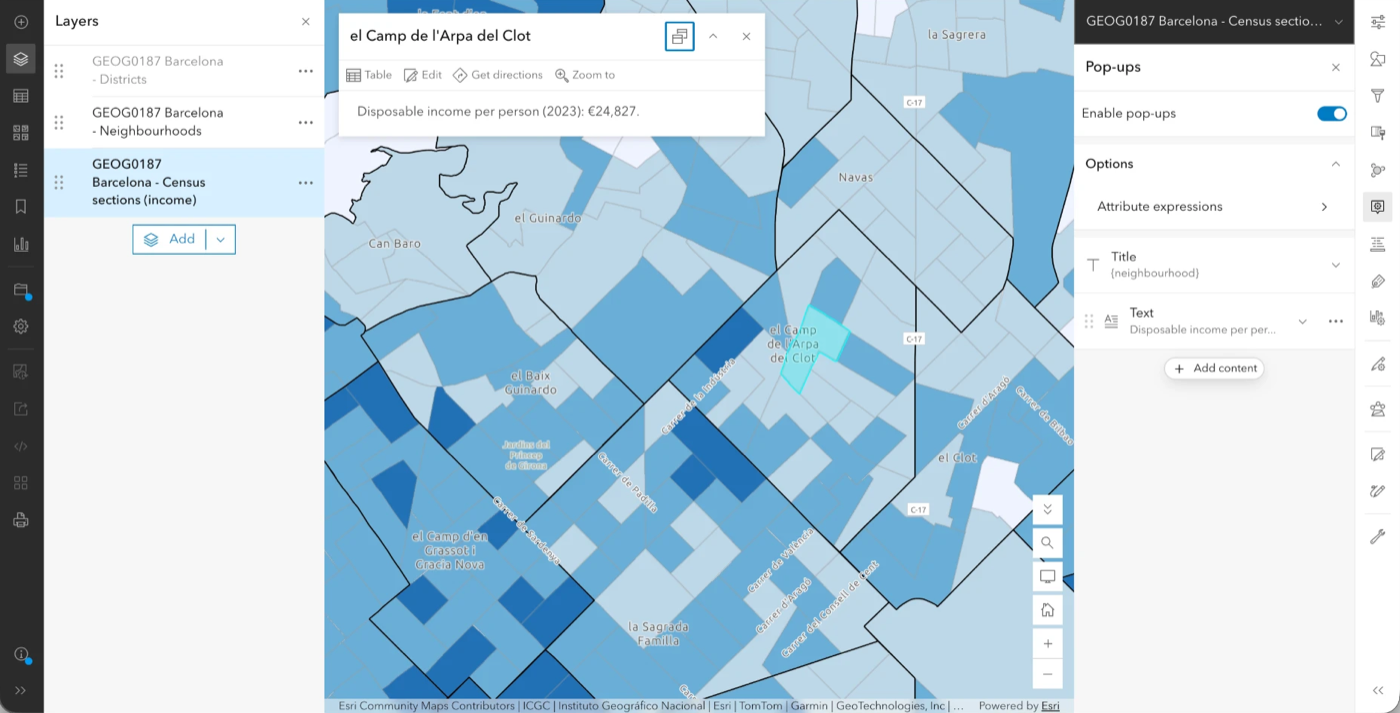
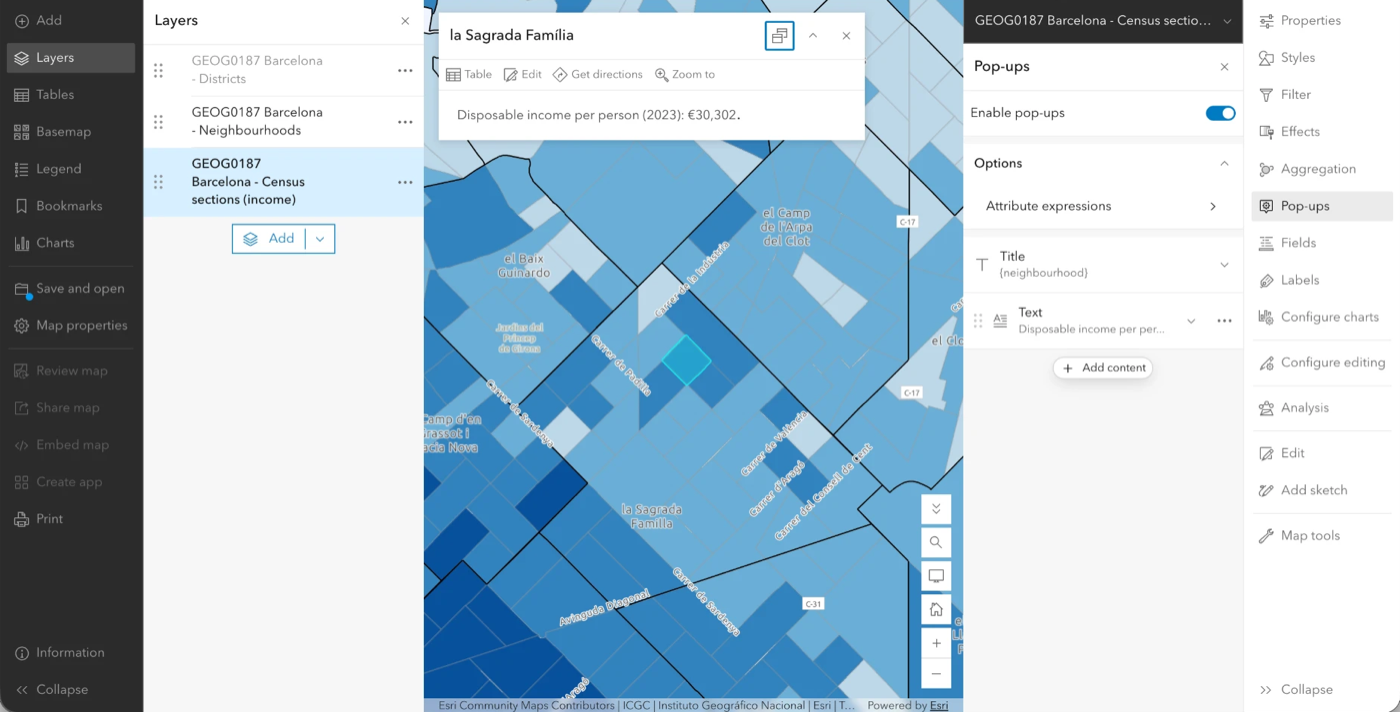
Page 04: retaken pop-up screenshot, add default pop-up settings figure

diff --git a/docs/04-secondary.html b/docs/04-secondary.html
@@ -671,18 +671,28 @@ Figure&nbsp;5: Classifying the data into quantiles.
 <li><p>First, switch off the pop-ups of the boundary layers. Otherwise, clicking on the map opens the neighbourhood or district instead of the census section. In <span class="ui">Layers</span>, click the neighbourhoods layer, then <span class="ui">Pop-ups</span> on the right-hand toolbar, and switch off <span class="ui">Enable pop-ups</span>. Do the same for the districts.</p></li>
 <li><p>Now click the main layer in <span class="ui">Layers</span>, and then <span class="ui">Pop-ups</span> on the right-hand toolbar.</p></li>
 <li><p>Set the title to the neighbourhood: click the <span class="ui">{ }</span> button next to the title, and choose <code>neighbourhood</code> from the list of fields.</p></li>
-<li><p>By default, the pop-up also contains a <span class="ui">Fields list</span> with every attribute in the layer. Remove it by clicking the <span class="ui">⋯</span> next to <span class="ui">Fields list</span> → <span class="ui">Delete</span>.</p></li>
+<li><p>By default, the pop-up also contains a <span class="ui">Fields list</span> with every attribute in the layer. Remove it by clicking the <span class="ui">⋯</span> next to <span class="ui">Fields list</span> → <span class="ui">Delete</span>.</p>
+<div id="fig-popup-default" class="quarto-float quarto-figure quarto-figure-center anchored" alt="Pop-ups panel for the census sections, with the title set to a field and a Fields list showing 8 of 9 fields">
+<figure class="quarto-float quarto-float-fig figure">
+<div aria-describedby="fig-popup-default-caption-0ceaefa1-69ba-4598-a22c-09a6ac19f8ca">
+<img src="images/w04/popup-default.png" class="img-fluid figure-img" alt="Pop-ups panel for the census sections, with the title set to a field and a Fields list showing 8 of 9 fields">
+</div>
+<figcaption class="quarto-float-caption-bottom quarto-float-caption quarto-float-fig" id="fig-popup-default-caption-0ceaefa1-69ba-4598-a22c-09a6ac19f8ca">
+Figure&nbsp;6: The default pop-up settings, with the <span class="ui">Fields list</span> below the title.
+</figcaption>
+</figure>
+</div></li>
 <li><p>Click <span class="ui">Add content</span> → <span class="ui">Text</span>, and then <span class="ui">Edit text</span>. Write the value with a clear name and unit, for example <em>Disposable income per person (2023): €{disp_income_pc_2023_eur}</em>. To avoid typos in the field name, insert it with the <span class="ui">{}</span> button in the text toolbar rather than typing it.</p></li>
 <li><p>Below that, add a short interpretive note: one sentence on what the value means in context. Click <span class="ui">OK</span>.</p></li>
 <li><p>Click on a few areas to check the result.</p></li>
 </ol>
-<div id="fig-popup" class="quarto-float quarto-figure quarto-figure-center anchored" alt="Pop-up for a census section in el Camp de l'Arpa del Clot showing its disposable income per person, next to the Pop-ups panel with a title and one text block">
+<div id="fig-popup" class="quarto-float quarto-figure quarto-figure-center anchored" alt="Pop-up for a census section in la Sagrada Família showing its disposable income per person, next to the Pop-ups panel with a title and one text block">
 <figure class="quarto-float quarto-float-fig figure">
 <div aria-describedby="fig-popup-caption-0ceaefa1-69ba-4598-a22c-09a6ac19f8ca">
-<img src="images/w04/popup.png" class="img-fluid figure-img" alt="Pop-up for a census section in el Camp de l'Arpa del Clot showing its disposable income per person, next to the Pop-ups panel with a title and one text block">
+<img src="images/w04/popup.png" class="img-fluid figure-img" alt="Pop-up for a census section in la Sagrada Família showing its disposable income per person, next to the Pop-ups panel with a title and one text block">
 </div>
 <figcaption class="quarto-float-caption-bottom quarto-float-caption quarto-float-fig" id="fig-popup-caption-0ceaefa1-69ba-4598-a22c-09a6ac19f8ca">
-Figure&nbsp;6: A pop-up for a census section.
+Figure&nbsp;7: A pop-up for a census section.
 </figcaption>
 </figure>
 </div>
